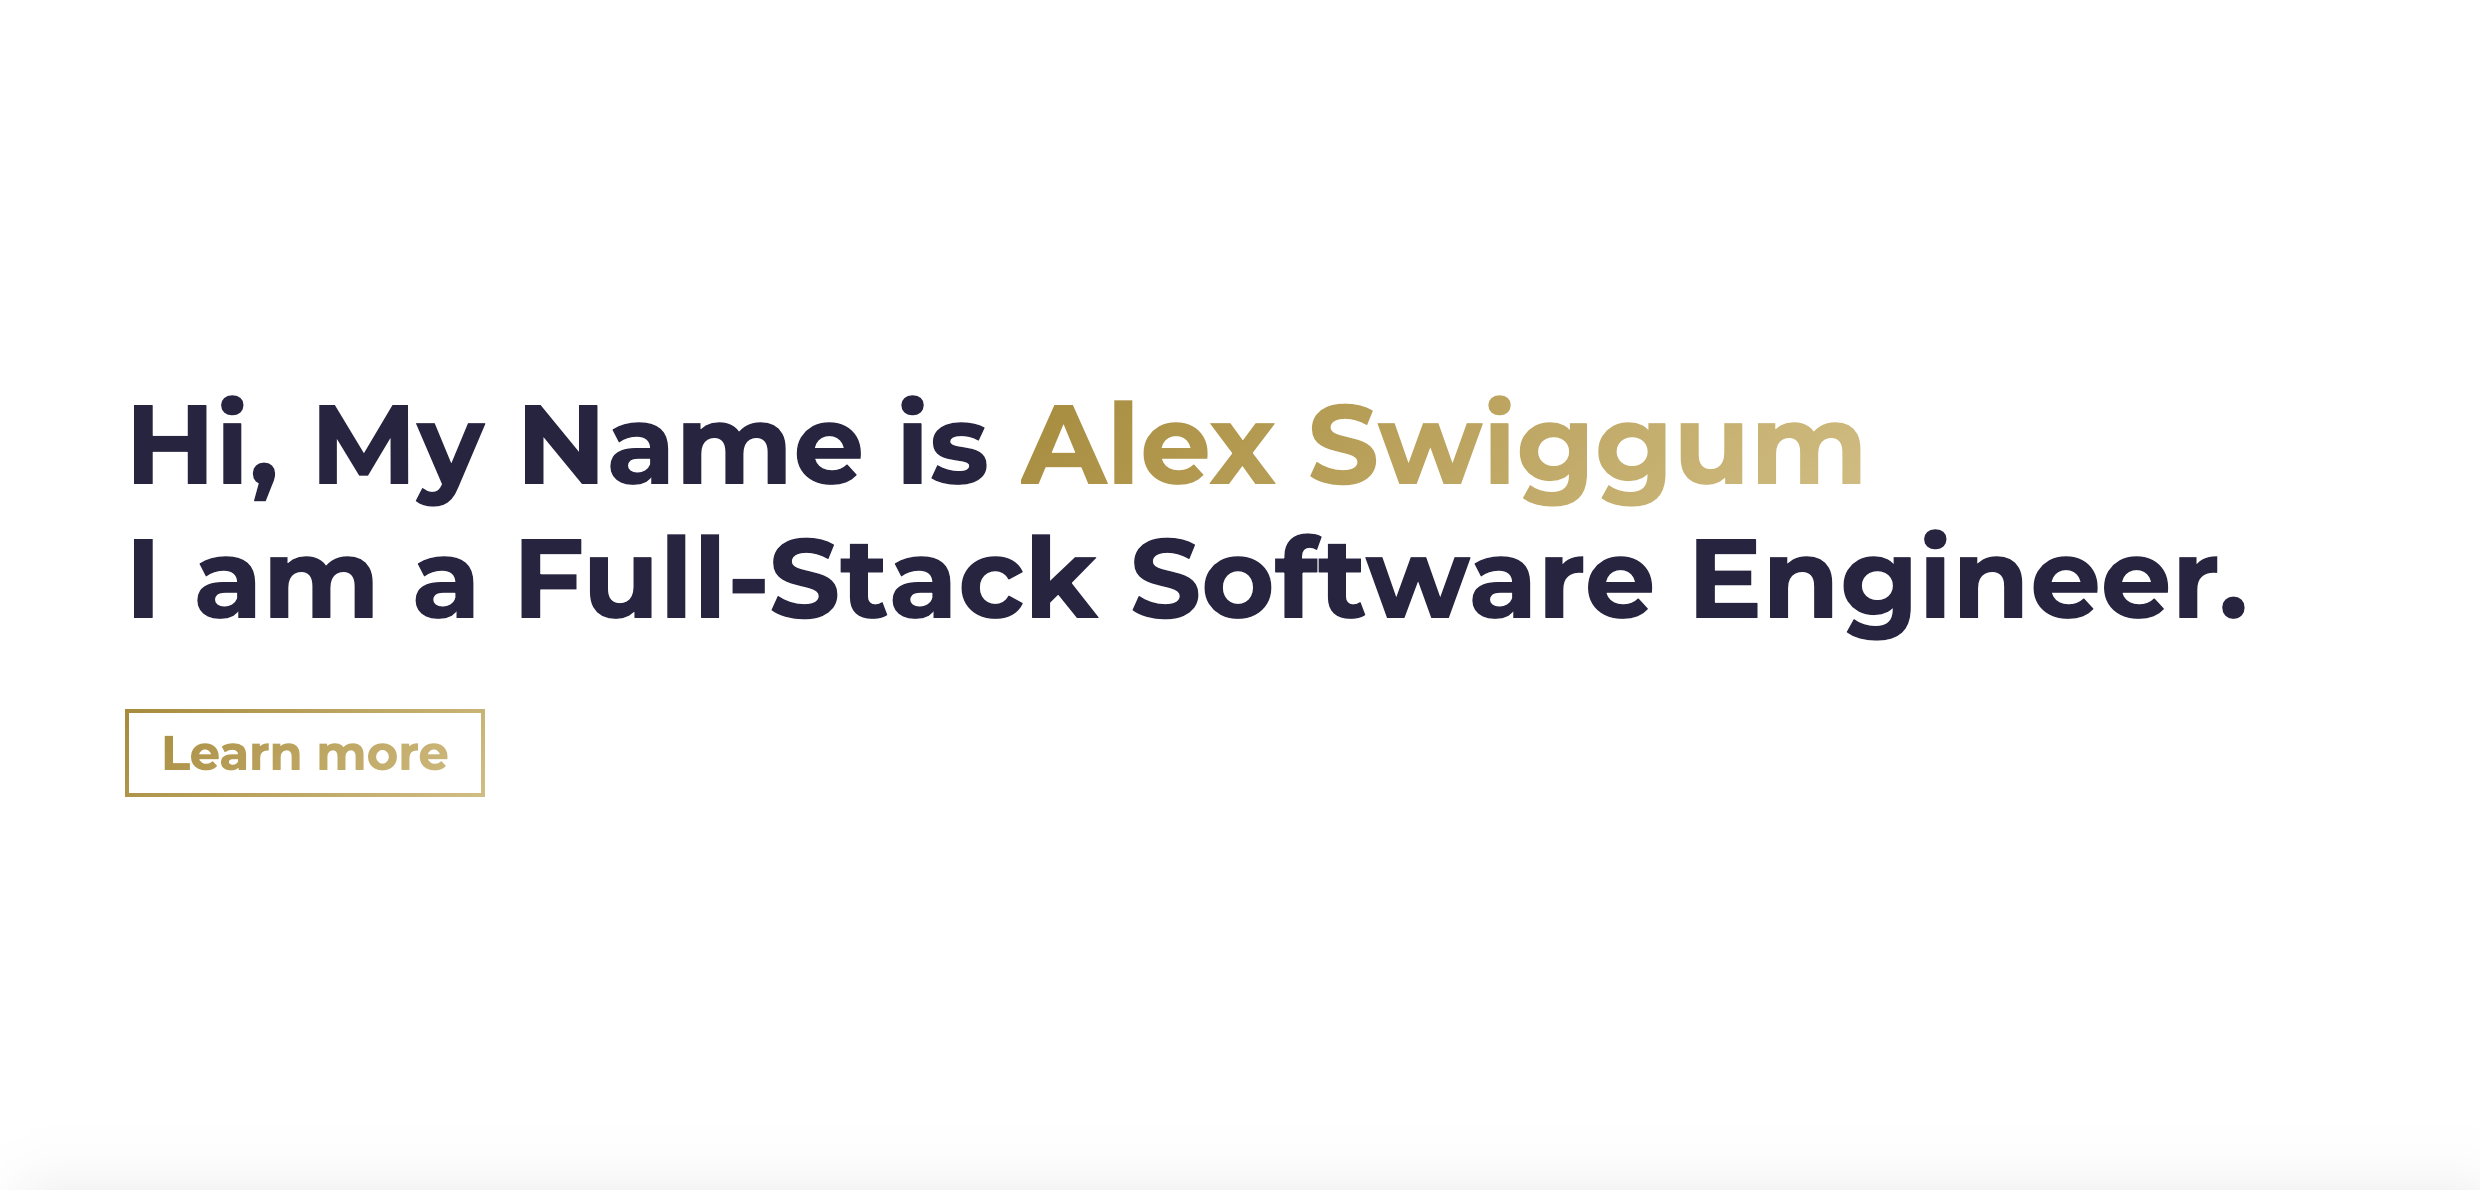
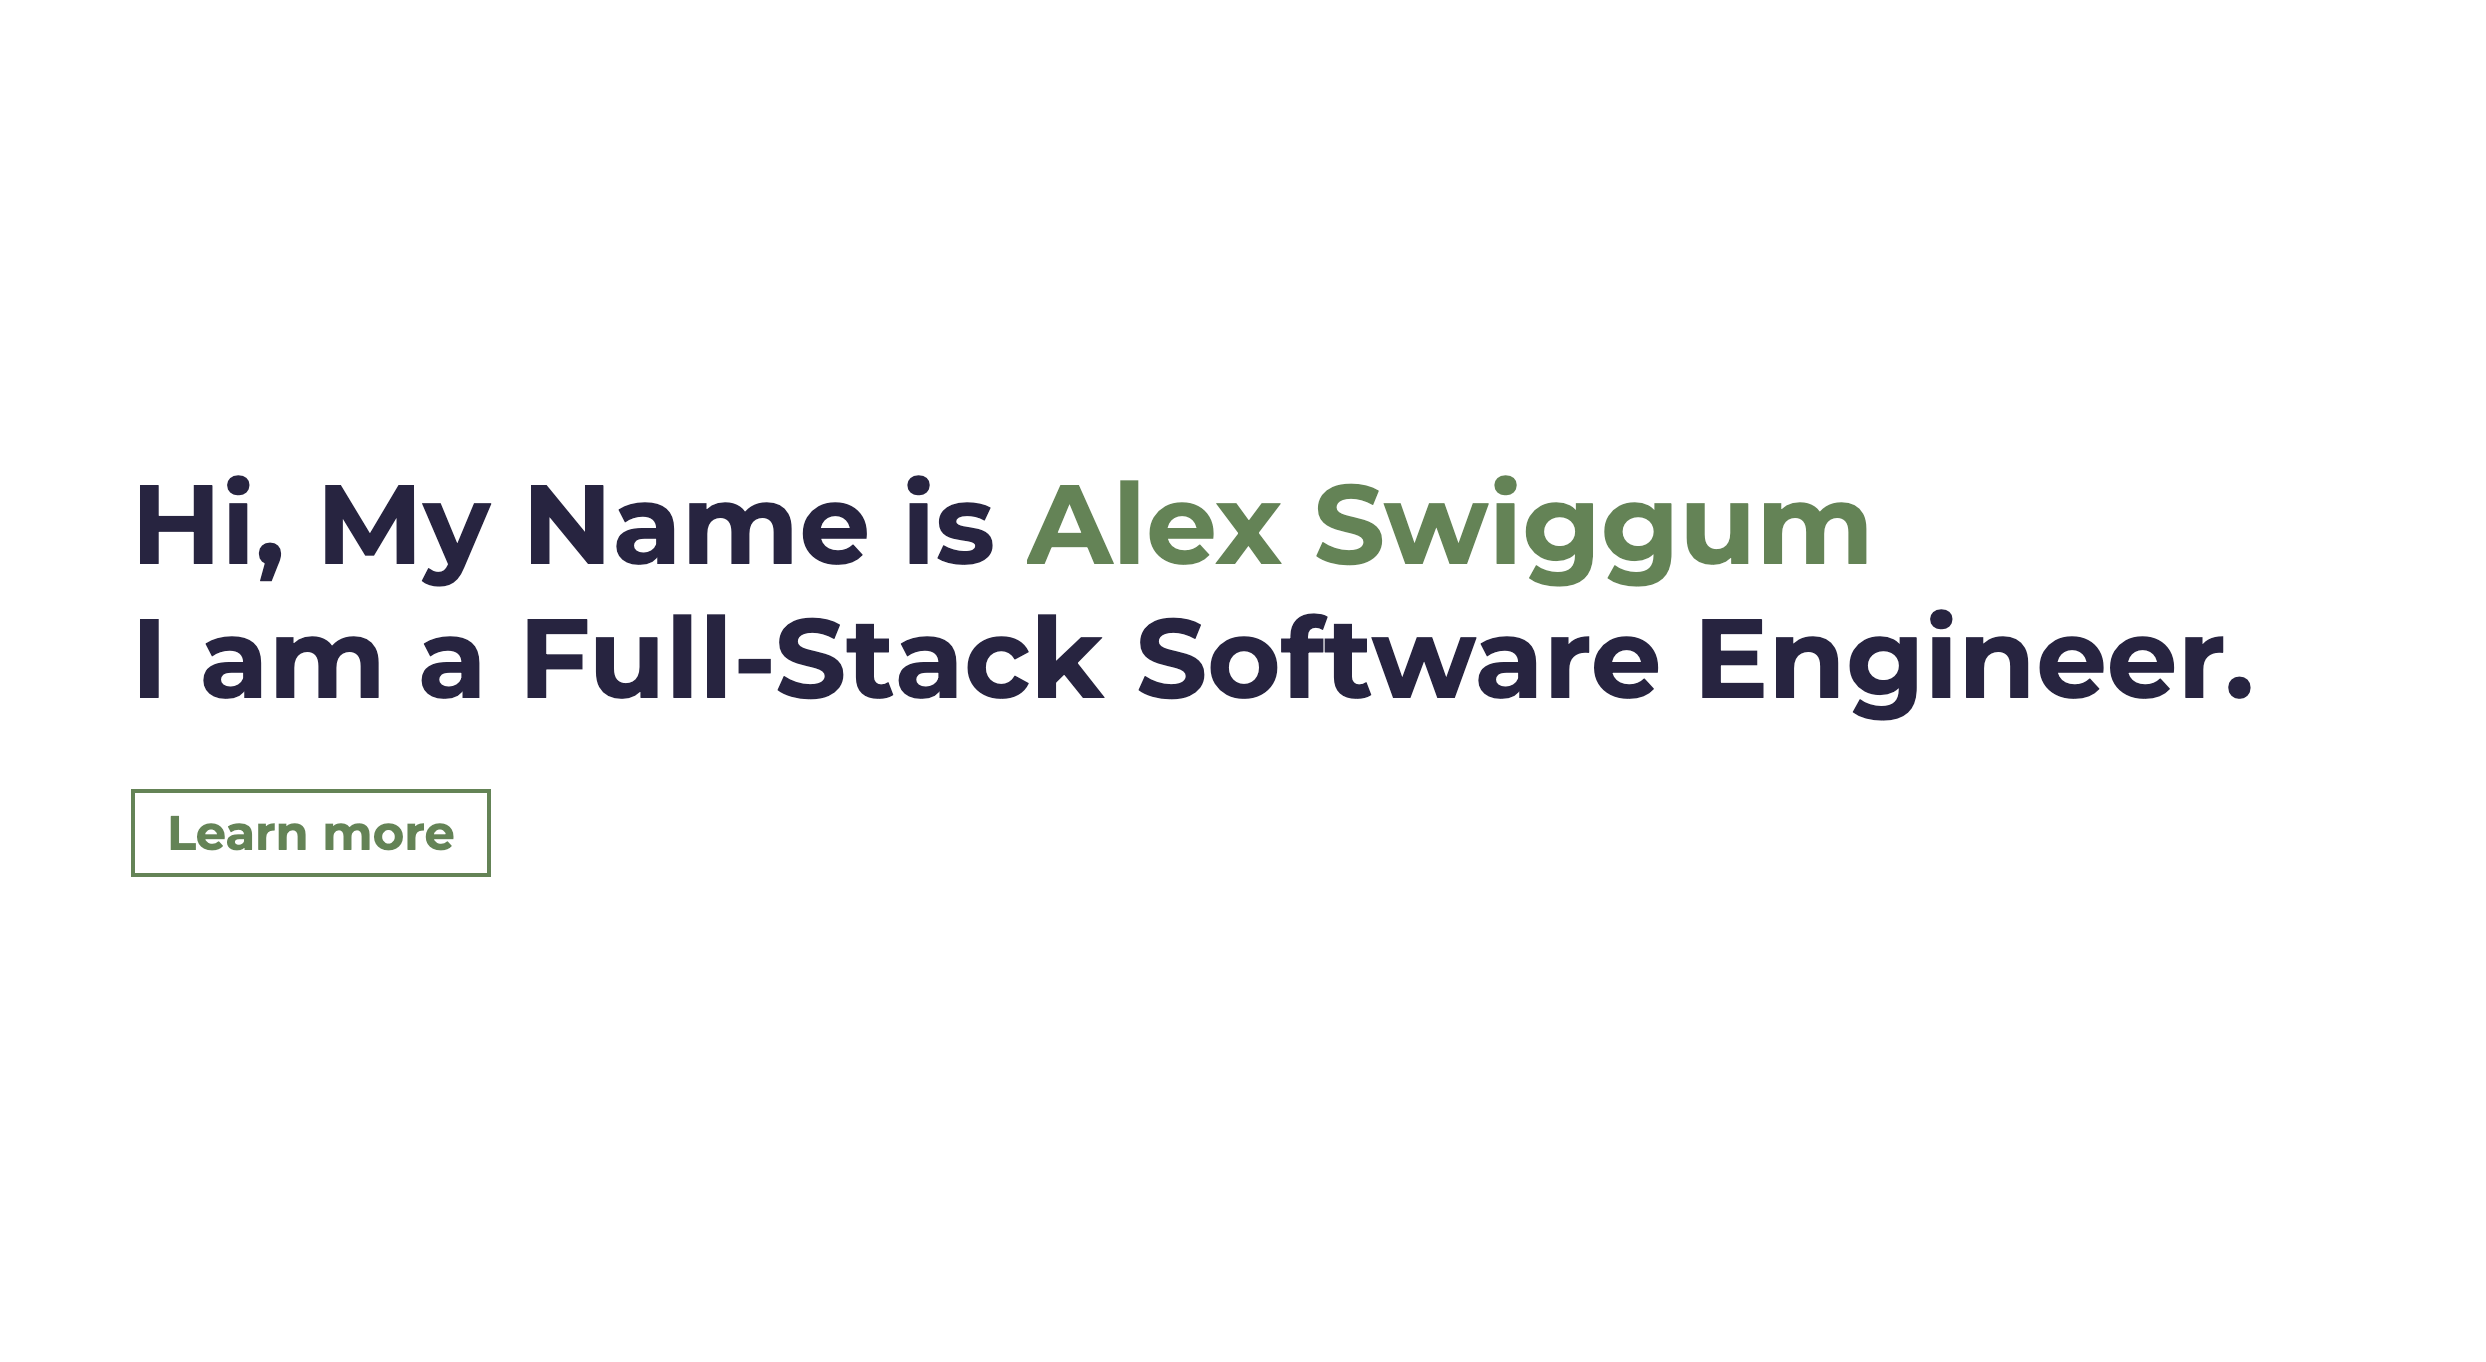
updated colorway

Changed region(s): [[0.031, 0.342, 0.7762, 0.4353], [0.031, 0.4664, 0.9004, 0.5597], [0.031, 0.5597, 0.2173, 0.684]]

diff --git a/src/mock/data.js b/src/mock/data.js
@@ -77,7 +77,7 @@ export const footerData = {
     },
     {
       id: nanoid(),
-      name: 'interior design portfolio',
+      name: 'codepen',
       url: 'https://ashleyswiggum.com',
     },
   ],

diff --git a/src/style/abstracts/_variables.scss b/src/style/abstracts/_variables.scss
@@ -1,6 +1,6 @@
 // COLORS
-$primary-color: #638454; 
-$secondary-color: #638454;
+$primary-color: #8da171; 
+$secondary-color: #8da171;
 
 // $primary-color: #7f449d;
 // $secondary-color: #793fc1;
